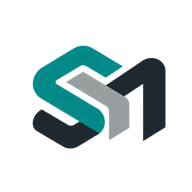
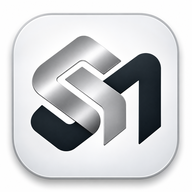
inst

diff --git a/public-stock/styles.css b/public-stock/styles.css
@@ -1,1 +1,22 @@
 :root{font-family:Inter,system-ui,Segoe UI,Arial,sans-serif;color:#21313b;background:#f4f7f7}*{box-sizing:border-box}body{margin:0}button,input,select,textarea{font:inherit}button{cursor:pointer;padding:10px 13px;border:1px solid #cad8d7;background:#fff;color:#1d3c3c;border-radius:9px;font-weight:700}button:hover{background:#edf6f4}button.primary{background:#146b64;color:#fff;border-color:#146b64}button.primary:hover{background:#0d554e}button:disabled{opacity:.55}input,select,textarea{border:1px solid #cfdcda;padding:11px;border-radius:9px;background:white;min-width:0;width:100%}textarea{height:80px;resize:vertical}input:focus,select:focus,textarea:focus{outline:2px solid #8bc7bb}label{display:block;font-size:12px;font-weight:800;color:#627478;margin-bottom:7px}h1,h2,h3,p{margin-top:0}h1{font-size:25px;letter-spacing:-.03em}h2{font-size:20px}h3{font-size:17px}.muted{color:#6d7a81;font-size:13px;line-height:1.5}.shell{min-height:100vh;display:flex}aside{width:246px;flex-shrink:0;background:#14322f;color:white;display:flex;flex-direction:column;padding:22px 14px}.logo{display:flex;gap:10px;align-items:center;margin-bottom:34px;padding:0 8px}.logo strong{letter-spacing:.08em}.logo small{display:block;font-size:10px;letter-spacing:.18em;opacity:.7}.mark{background:#48b19b;color:white;display:grid;place-items:center;width:43px;height:43px;border-radius:12px;font-weight:900;font-size:24px}.menu{display:grid;gap:5px}.nav{text-align:left;border:0;background:transparent;color:#c6e1dc;padding:13px;border-radius:10px;font-weight:600}.nav:hover,.nav.active{background:#276258;color:white}.person{margin-top:auto;padding:18px 8px 0;border-top:1px solid #ffffff27}.person small{display:block;opacity:.65;margin:4px 0 10px}.person button{background:transparent;border:1px solid #ffffff4b;color:white;width:100%}.main{min-width:0;flex:1}header{height:84px;background:white;display:flex;justify-content:space-between;align-items:center;padding:15px 28px;border-bottom:1px solid #e2e9e8}header b{font-size:17px}header span{display:block;color:#748487;font-size:12px;margin-top:4px}.store{width:250px}.store label{margin-bottom:4px}main{max-width:1600px;padding:26px 28px;margin:auto}.page-head{display:flex;justify-content:space-between;gap:15px;align-items:start;margin-bottom:20px}.page-head p{color:#748487;margin:0}.stats{display:grid;grid-template-columns:repeat(4,minmax(160px,1fr));gap:14px;margin-bottom:18px}.metric{background:white;border:1px solid #e4eae9;border-radius:13px;padding:16px;display:grid;gap:7px}.metric small{font-size:12px;color:#687c7b;font-weight:700}.metric strong{font-size:28px;letter-spacing:-.04em}.metric span{font-size:12px;color:#778987}.panel{background:white;border:1px solid #e0e8e7;border-radius:14px;padding:20px;margin-bottom:17px}.tools{display:flex;gap:10px;align-items:center;margin:14px 0}.tools input{max-width:550px}.scroll{max-height:68vh;overflow:auto}table{width:100%;border-collapse:collapse;font-size:13px;white-space:nowrap}th{background:#edf5f3;text-align:left;color:#496660;font-size:11px;text-transform:uppercase;position:sticky;top:0}th,td{border-bottom:1px solid #e7eeee;padding:12px 10px}tr:hover td{background:#fafdfc}.positive{color:#16815c;font-weight:900}.zero{color:#c0483f;font-weight:900}.grey{color:#809099}.empty{text-align:center;padding:35px;color:#82918c}.status{text-transform:capitalize;font-size:11px;font-weight:800;padding:5px 9px;border-radius:7px;background:#eef1f3}.status.approved{background:#dff5e8;color:#156740}.status.submitted{background:#fff3cf;color:#946700}.status.rejected{background:#ffe0e0;color:#ad3333}.actions{display:flex;gap:5px}.actions button{font-size:11px;padding:7px}.actions .approve{background:#e4f5e6;color:#196a43}.entry{display:flex;gap:10px;align-items:end;margin:10px 0}.entry .sku{flex:2}.entry .quantity{flex:1}.entry .remove{height:43px;font-size:22px;color:#bd4343}.form-grid{display:grid;grid-template-columns:1fr 1fr;gap:14px;margin:12px 0}.form-panel>div:has(textarea){margin-bottom:15px}.checklist{display:grid;gap:12px}.checklist label{font-size:13px;font-weight:500;color:#43514f}.checklist input{width:auto;margin-right:9px}.notice{padding:12px 15px;background:#ffe6e2;color:#99342a;border-radius:9px;margin-bottom:18px}.notice.ok{background:#dff5e8;color:#156740}.login{max-width:470px;background:#fff;margin:10vh auto;padding:38px;border-radius:18px;border:1px solid #e0e9e7}.login-head{display:flex;gap:12px;align-items:center;margin-bottom:35px}.login-head h1{margin:0}.login-head p{margin:0;font-size:11px;letter-spacing:.15em;color:#71847b}.login form{display:grid;gap:10px}.login form button{margin-top:12px}.loading{padding:40px;text-align:center}@media(max-width:1100px){.stats{grid-template-columns:1fr 1fr}}@media(max-width:790px){.shell{display:block}aside{width:100%;display:block;padding:12px}.logo{margin-bottom:12px}.menu{display:flex;overflow:auto}.nav{white-space:nowrap}.person{display:none}header{height:auto;gap:15px;flex-direction:column;align-items:start}main{padding:15px}.page-head{flex-direction:column}.stats{grid-template-columns:1fr 1fr}.form-grid{grid-template-columns:1fr}.entry{flex-wrap:wrap}}
+
+/* V35 STOCK OFFICE — OFFICIAL SILVER / CHARCOAL BRANDING */
+:root{--stock-silver:#c7cbd0;--stock-charcoal:#1d252d;--stock-border:#d8dde2}
+body{background:#f3f5f7;color:#202830}
+aside{background:#1d252d}
+.nav{color:#d1d6dc}
+.nav:hover,.nav.active{background:#414b54;color:#fff}
+button{border-color:var(--stock-border);color:#25313a}
+button:hover{background:#f0f2f4}
+button.primary{background:#323a43;border-color:#323a43;color:white}
+button.primary:hover{background:#1d252d}
+input:focus,select:focus,textarea:focus{outline:2px solid #adb5be}
+th{background:#eef0f2;color:#48545f}
+tr:hover td{background:#f8f9fa}
+.metric,.panel,.login{border-color:#e0e3e7}
+.stock-brand-logo{display:block;object-fit:contain;object-position:center;width:100%;height:auto}
+.logo{display:block;margin-bottom:26px;padding:8px 4px;border-bottom:1px solid #ffffff2c}
+.sidebar-logo{width:100%;max-height:92px;padding:9px 7px;background:white;border-radius:10px}
+.login-head{display:block;margin-bottom:28px}
+.login-logo{width:100%;max-height:130px;object-fit:contain}
+@media(max-width:790px){.logo{padding:0;margin-bottom:12px;border:0}.sidebar-logo{max-width:220px;max-height:64px}}

diff --git a/public-stock/app.js b/public-stock/app.js
@@ -6,9 +6,9 @@ const date=v=>v?new Date(v).toLocaleString('en-ZA'):'—';
 async function api(path,options={}){const r=await fetch('/api/'+path,{credentials:'same-origin',...options,headers:{'Content-Type':'application/json',...(options.headers||{})}}),d=await r.json().catch(()=>({}));if(!r.ok)throw Error(d.error||'Request failed: '+r.status);return d}
 const post=(path,data)=>api(path,{method:'POST',body:JSON.stringify(data)});
 function say(text,ok=false){state.notice={text:typeof text==='string'?text:text.message,ok};render()}
-function login(){return `<div class="login"><div class="login-head"><div class="mark">S</div><div><h1>SULMOS26</h1><p>STOCK & BACK OFFICE</p></div></div><h2>Sign in to Stock Office</h2><p class="muted">Owner, manager and assigned stock staff accounts only.</p><form id="login"><label>Username</label><input required name="username" autocomplete="username" placeholder="Username"><label>Password</label><input type="password" required name="password" autocomplete="current-password"><button class="primary">Secure sign in</button></form>${notice()}</div>`}
+function login(){return `<div class="login"><div class="login-head"><img class="stock-brand-logo login-logo" src="/assets/sulmos26-stock-office-logo.png" alt="SULMOS26 Stock Office"></div><h2>Sign in to Stock Office</h2><p class="muted">Owner, manager and assigned stock staff accounts only.</p><form id="login"><label>Username</label><input required name="username" autocomplete="username" placeholder="Username"><label>Password</label><input type="password" required name="password" autocomplete="current-password"><button class="primary">Secure sign in</button></form>${notice()}</div>`}
 function notice(){return state.notice?`<div class="notice ${state.notice.ok?'ok':''}" role="alert">${esc(state.notice.text)}</div>`:''}
-function shell(content){return `<div class="shell"><aside><div class="logo"><div class="mark">S</div><div><strong>SULMOS26</strong><small>STOCK OFFICE</small></div></div><div class="menu">${[['inventory','Stock on hand'],['grv','Goods received · GRV'],['count','Physical stock count'],['documents','Document register'],['movements','Movement audit']].map(([id,name])=>`<button class="nav ${id===state.tab?'active':''}" data-tab="${id}">${name}</button>`).join('')}</div><div class="person"><div>${esc(state.user.name)}</div><small>${esc(state.user.role)}</small><button id="logout">Sign out</button></div></aside><div class="main"><header><div><b>Stock & Back Office</b><span>Verified inventory management</span></div><div class="store"><label>Working store</label><select id="store">${state.stores.map(s=>`<option value="${esc(s.id)}" ${s.id===state.store?'selected':''}>${esc(s.name)}</option>`).join('')}</select></div></header><main>${notice()}${content}</main></div></div>`}
+function shell(content){return `<div class="shell"><aside><div class="logo"><img class="stock-brand-logo sidebar-logo" src="/assets/sulmos26-stock-office-logo.png" alt="SULMOS26 Stock Office"></div><div class="menu">${[['inventory','Stock on hand'],['grv','Goods received · GRV'],['count','Physical stock count'],['documents','Document register'],['movements','Movement audit']].map(([id,name])=>`<button class="nav ${id===state.tab?'active':''}" data-tab="${id}">${name}</button>`).join('')}</div><div class="person"><div>${esc(state.user.name)}</div><small>${esc(state.user.role)}</small><button id="logout">Sign out</button></div></aside><div class="main"><header><div><b>Stock & Back Office</b><span>Verified inventory management</span></div><div class="store"><label>Working store</label><select id="store">${state.stores.map(s=>`<option value="${esc(s.id)}" ${s.id===state.store?'selected':''}>${esc(s.name)}</option>`).join('')}</select></div></header><main>${notice()}${content}</main></div></div>`}
 function metric(label,value,note){return `<article class="metric"><small>${label}</small><strong>${value}</strong><span>${note}</span></article>`}
 function inventory(){const list=state.products.filter(x=>[x.sku,x.name,x.barcode,x.category].join(' ').toLowerCase().includes(state.search.toLowerCase()));let recorded=state.products.filter(x=>x.recorded).length,zero=state.products.filter(x=>x.recorded&&Number(x.on_hand)===0).length;return `<div class="page-head"><div><h1>Stock on hand</h1><p>Ledger balances by store and SKU, including approved reservations.</p></div><button id="printInventory">Print stock list</button></div><div class="stats">${metric('Products in catalogue',state.products.length,'Active products')}${metric('With recorded balances',recorded,'Verified ledger records')}${metric('Zero on hand',zero,'Record confirmed at zero')}${metric('Uncounted',state.products.length-recorded,'Stock not yet recorded')}</div><section class="panel"><div class="tools"><input id="search" placeholder="Search SKU, barcode, product or category" value="${esc(state.search)}"><button id="refresh">Refresh stock</button></div><div class="scroll"><table><thead><tr><th>SKU</th><th>Product</th><th>Category</th><th>On hand</th><th>Reserved</th><th>Available</th><th>Last update</th></tr></thead><tbody>${list.map(x=>`<tr><td><b>${esc(x.sku)}</b></td><td>${esc(x.name)}</td><td>${esc(x.category)}</td><td><span class="${!x.recorded?'grey':Number(x.on_hand)===0?'zero':'positive'}">${fmt(x.on_hand)}</span></td><td>${fmt(x.reserved)}</td><td>${fmt(x.available)}</td><td>${date(x.updated_at)}</td></tr>`).join('')||'<tr><td colspan="7" class="empty">No products found</td></tr>'}</tbody></table></div></section>`}
 function lineRows(){return state.items.map((x,i)=>`<div class="entry"><div class="sku"><label>SKU or barcode</label><input data-sku="${i}" placeholder="Product SKU" value="${esc(x.sku)}"></div><div class="quantity"><label>${state.kind==='grv'?'Received quantity':'Physically counted'}</label><input data-qty="${i}" type="number" min="0" step="1" value="${x.qty}"></div><button class="remove" data-remove="${i}" title="Remove item">×</button></div>`).join('')}

diff --git a/public-stock/index.html b/public-stock/index.html
@@ -1,1 +1,1 @@
-<!doctype html><html lang="en"><head><meta charset="utf-8"><meta name="viewport" content="width=device-width,initial-scale=1"><meta name="theme-color" content="#146b64"><meta name="description" content="SULMOS26 Stock Office and Inventory Control"><meta name="application-name" content="SULMOS26 Stock Office"><meta name="apple-mobile-web-app-title" content="SULMOS26 Stock Office"><title>SULMOS26 Stock Office</title><link rel="manifest" href="/manifest.webmanifest"><link rel="icon" href="/assets/icon-192.png"><link rel="apple-touch-icon" href="/assets/icon-192.png"><link rel="stylesheet" href="/styles.css"></head><body><div id="app"><p class="loading">Opening Stock Office…</p></div><script type="module" src="/app.js"></script></body></html>
+<!doctype html><html lang="en"><head><meta charset="utf-8"><meta name="viewport" content="width=device-width,initial-scale=1"><meta name="theme-color" content="#C0C4C8"><meta name="description" content="SULMOS26 Stock Office and Inventory Control"><meta name="application-name" content="SULMOS26 Stock Office"><meta name="apple-mobile-web-app-title" content="SULMOS26 Stock Office"><title>SULMOS26 Stock Office</title><link rel="manifest" href="/manifest.webmanifest"><link rel="icon" type="image/png" sizes="48x48" href="/assets/icon-48.png"><link rel="apple-touch-icon" href="/assets/apple-touch-icon.png"><link rel="stylesheet" href="/styles.css?v=35-silver"></head><body><div id="app"><p class="loading">Opening Stock Office…</p></div><script type="module" src="/app.js"></script></body></html>
